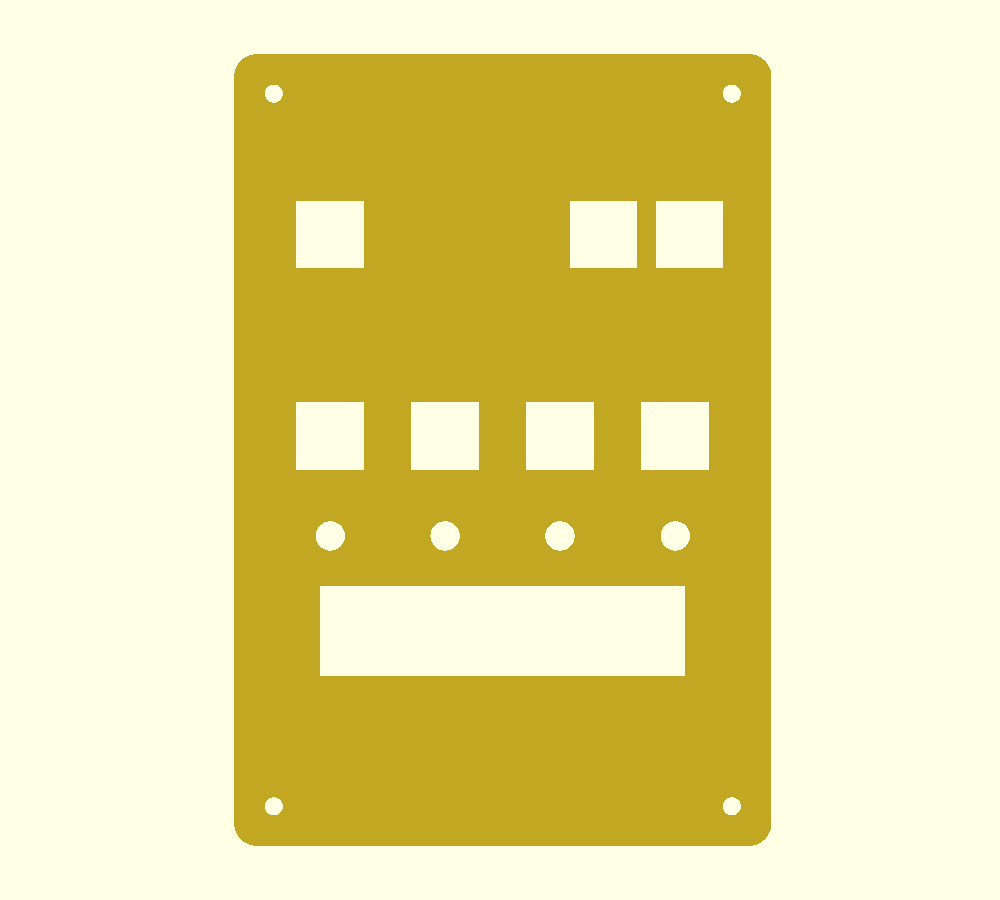
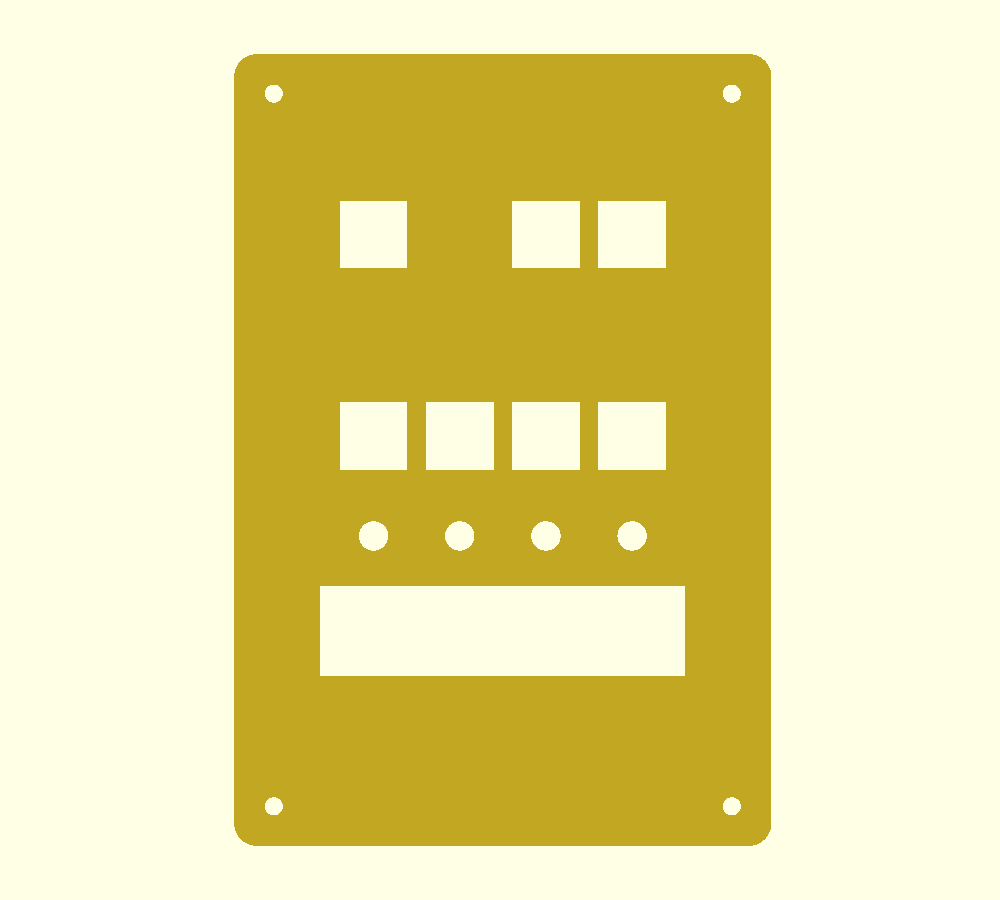
Narrow pitch to 6 holes (15.24mm) to fit the kit's 18x24 perfboards
Board confirmed as 18 x 24 holes (a-x by 1-18), so the hole field is 58.4mm and the
old 8-hole pitch (73mm span) was never going to work. Pitch is now driven by a single
PITCH_HOLES parameter in the .scad; every hole position and the answer-row placement
derive from it, so the face and the board grid stay in agreement.

New columns: 24.64 / 39.88 / 55.12 / 70.36mm. AA sits under column 1 and no/yes under
columns 3 and 4, which keeps AA 30.5mm away from 'yes' so it can't be fat-fingered.

Consequence to design around: at 18 rows per board, no single kit board can hold the
LED/button cluster (9 rows), the ESP32 (15 rows) and the answer row (5 rows). The build
needs a 3-board split -- one cluster per board -- joined by wire looms.

diff --git a/BUILD.md b/BUILD.md
@@ -119,17 +119,22 @@ board grid and the case agree by construction.
 | Feature | X (mm) | Y (mm) | Hole |
 |---|---|---|---|
 | LCD window (centred) | 15.3 – 79.8 | 30 – 46 | 64.5 × 16 rectangle |
-| LED 1 red | 17.0 | 54.8 | ⌀5.2 |
-| LED 2 green | 37.3 | 54.8 | ⌀5.2 |
-| LED 3 blue | 57.6 | 54.8 | ⌀5.2 |
-| LED 4 yellow | 78.0 | 54.8 | ⌀5.2 |
-| Button 1 red | 17.0 | 72.5 | square, cap size +0.4 |
-| Button 2 green | 37.3 | 72.5 | " |
-| Button 3 blue | 57.6 | 72.5 | " |
-| Button 4 yellow | 78.0 | 72.5 | " |
-| AA | 17.0 | 108.1 | " |
-| no | 65.3 | 108.1 | " |
-| yes | 80.5 | 108.1 | " |
+| LED 1 red | 24.64 | 54.8 | ⌀5.2 |
+| LED 2 green | 39.88 | 54.8 | ⌀5.2 |
+| LED 3 blue | 55.12 | 54.8 | ⌀5.2 |
+| LED 4 yellow | 70.36 | 54.8 | ⌀5.2 |
+| Button 1 red | 24.64 | 72.5 | square, cap size +0.4 |
+| Button 2 green | 39.88 | 72.5 | " |
+| Button 3 blue | 55.12 | 72.5 | " |
+| Button 4 yellow | 70.36 | 72.5 | " |
+| AA | 24.64 | 108.1 | " (under column 1) |
+| no | 55.12 | 108.1 | " (under column 3) |
+| yes | 70.36 | 108.1 | " (under column 4) |
+
+**Pitch is 15.24mm — exactly 6 perfboard holes**, chosen so the row fits the kit's
+18 × 24 hole boards (58.4mm of hole field). Gap between caps is 3.6mm. All seven
+buttons and all four LEDs share the same four columns, so the board grid and the face
+agree by construction. Change `PITCH_HOLES` in the .scad to move everything at once.
 | USB-C slot | centred, ~12 wide | bottom edge | clears the **housing**, not just the plug |
 
 **Button holes are sized to the CAP, not the switch body.** Measure a cap with calipers
